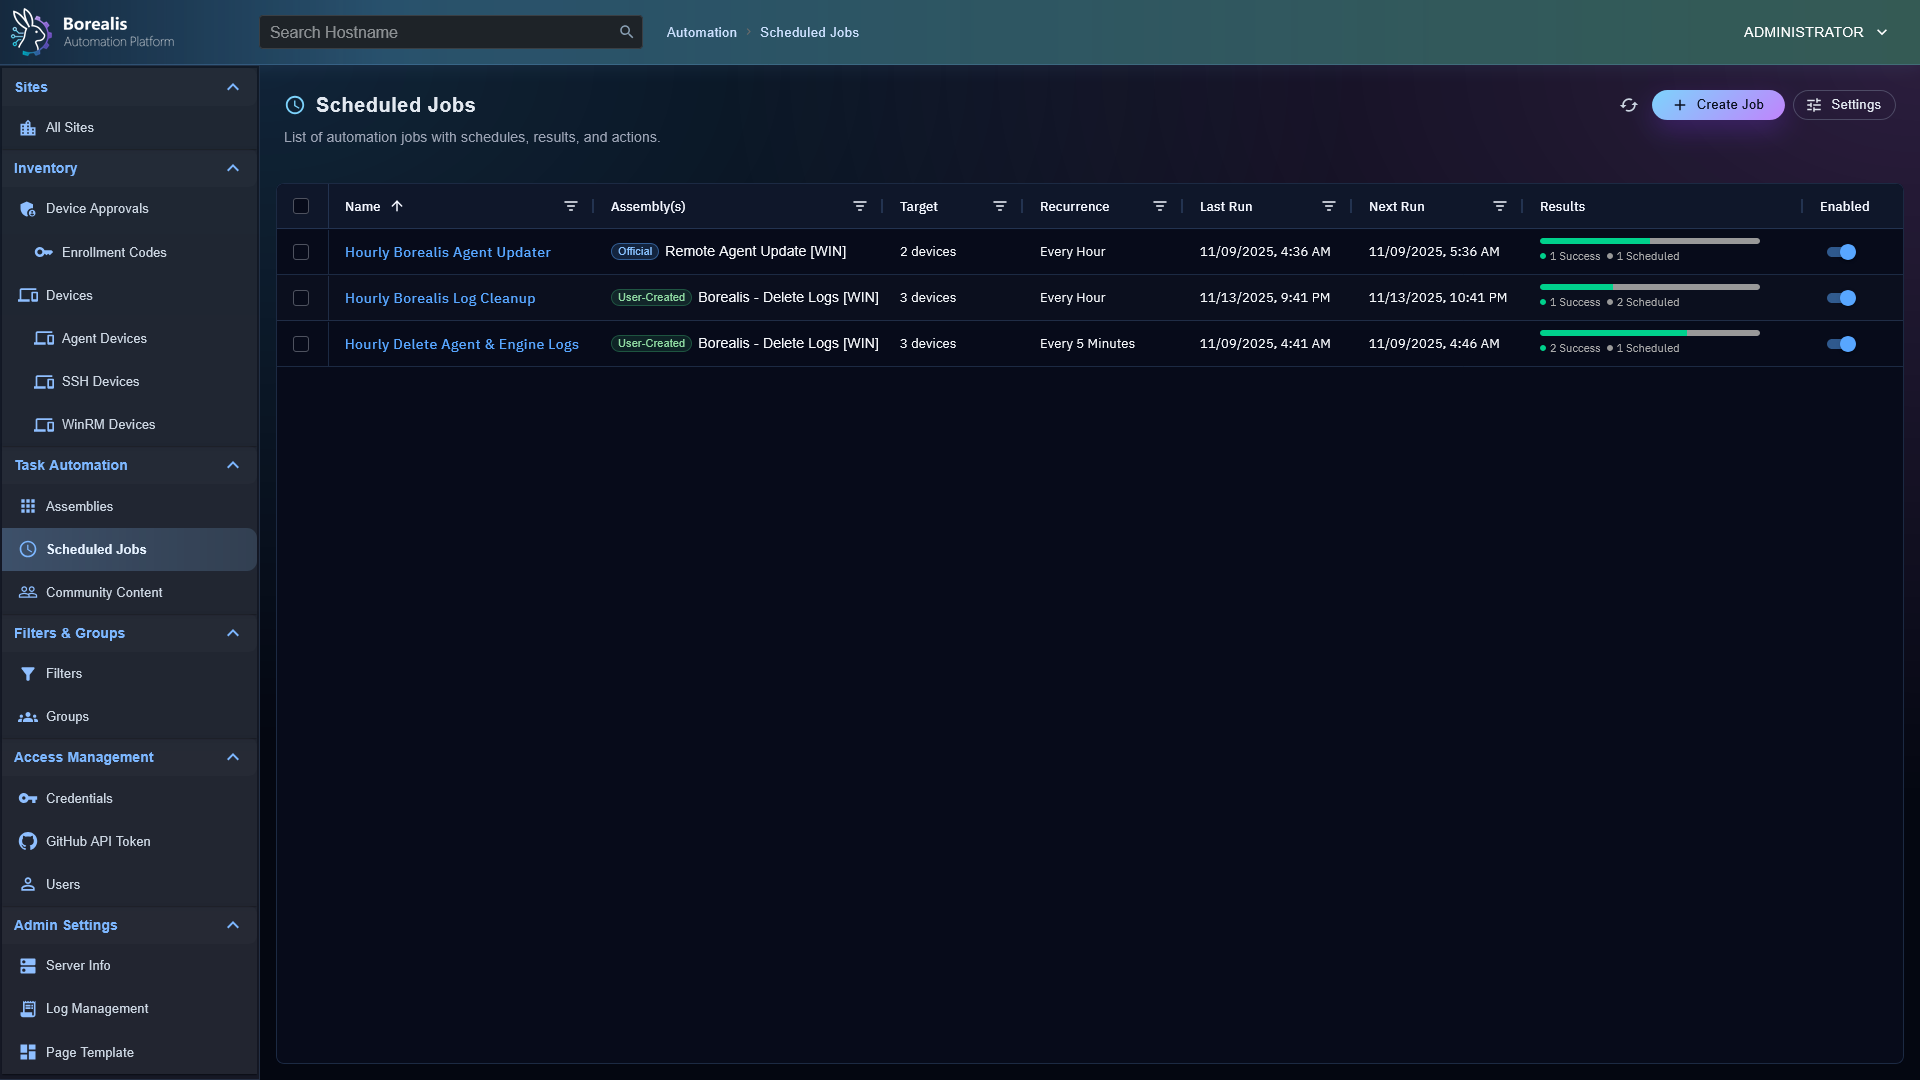
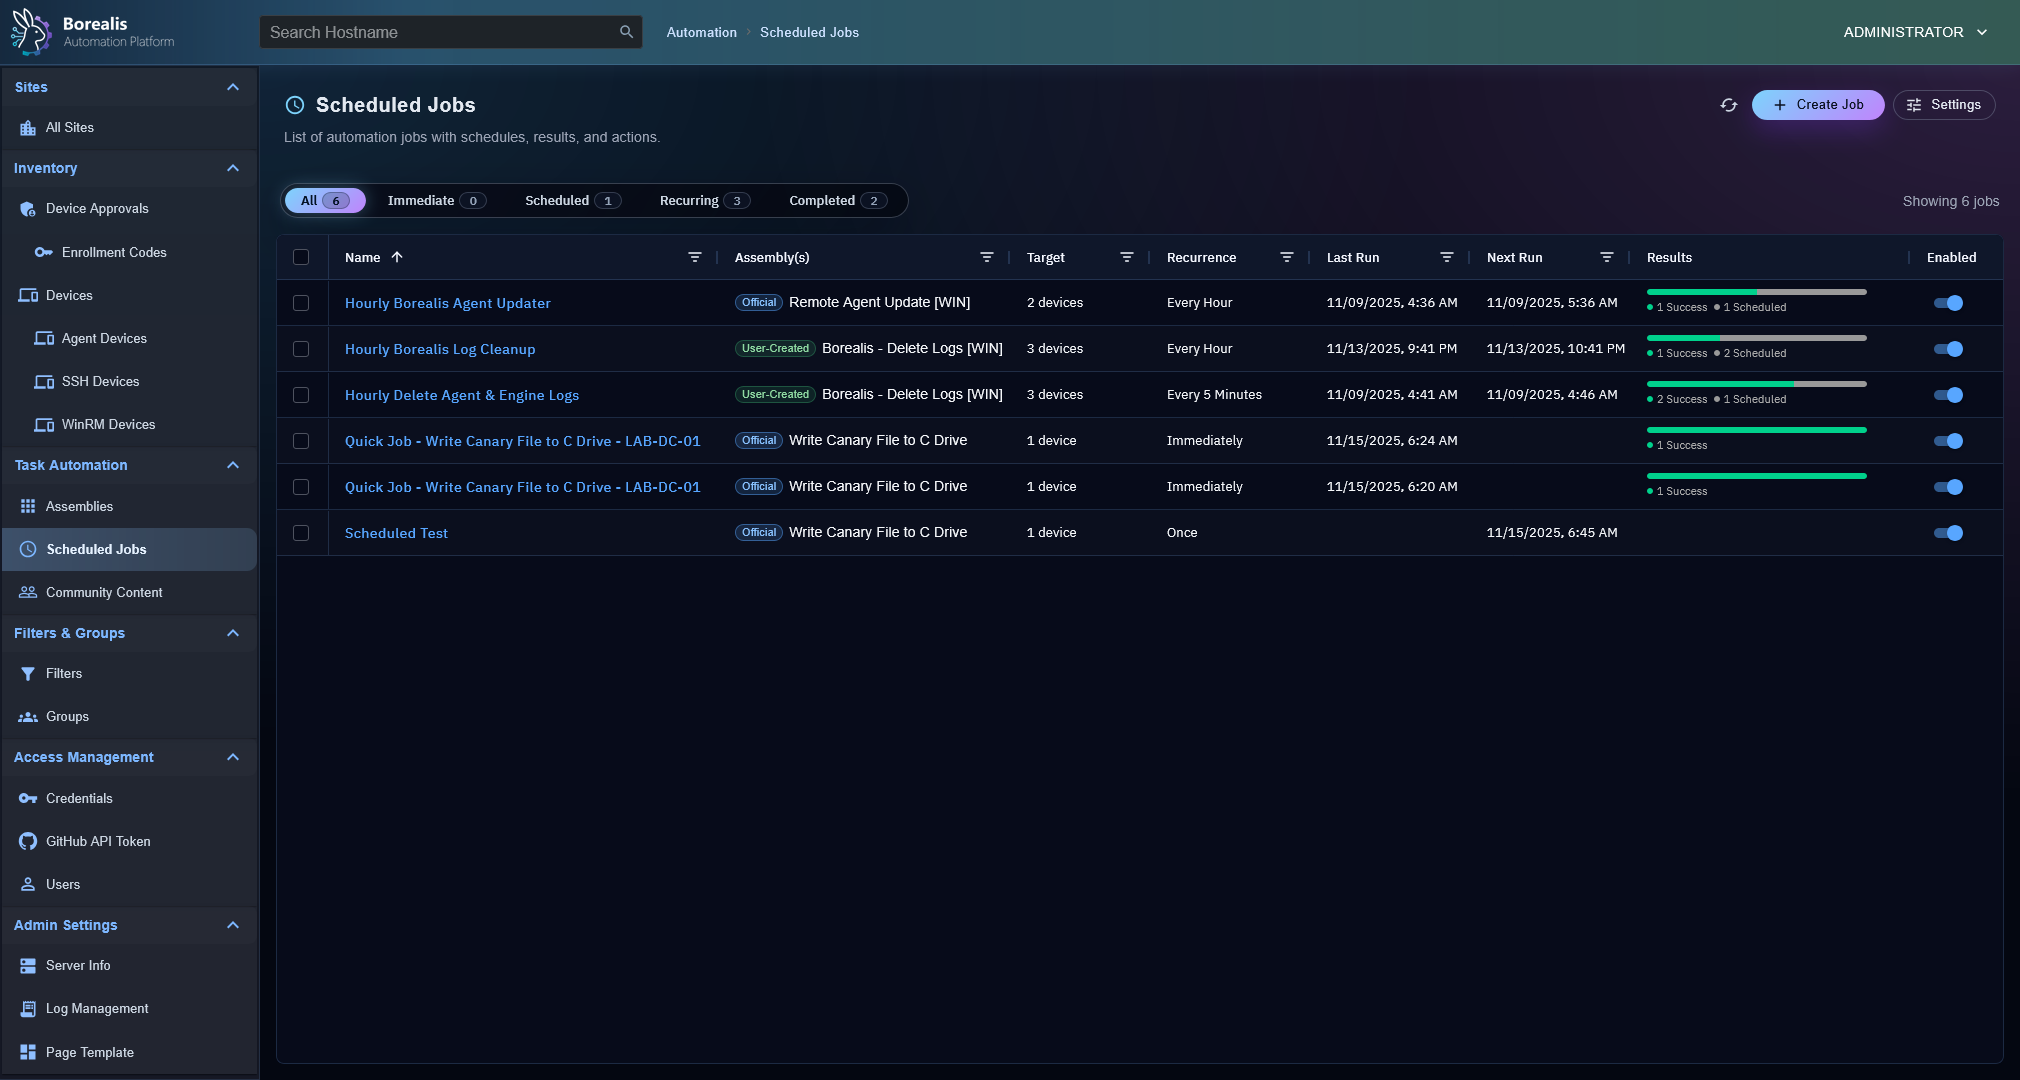
Updated Scheduled Job List Screenshot

diff --git a/Data/Engine/web-interface/src/Scheduling/Scheduled_Jobs_List.jsx b/Data/Engine/web-interface/src/Scheduling/Scheduled_Jobs_List.jsx
@@ -173,6 +173,11 @@ export default function ScheduledJobsList({ onCreateJob, onEditJob, refreshToken
   const [assembliesError, setAssembliesError] = useState("");
   const gridApiRef = useRef(null);
 
+  const deriveRowKey = useCallback((row, index = "") => {
+    const candidate = row?.id ?? row?.name ?? index ?? "";
+    return String(candidate);
+  }, []);
+
   const assembliesCellRenderer = useCallback((params) => {
     const list = params?.data?.componentsMeta || [];
     if (!list.length) {
@@ -380,7 +385,7 @@ export default function ScheduledJobsList({ onCreateJob, onEditJob, refreshToken
         setSelectedIds((prev) => {
           if (!prev.size) return prev;
           const valid = new Set(
-            mappedRows.map((row, index) => row.id ?? row.name ?? String(index))
+            mappedRows.map((row, index) => deriveRowKey(row, index))
           );
           let changed = false;
           const next = new Set();
@@ -403,7 +408,7 @@ export default function ScheduledJobsList({ onCreateJob, onEditJob, refreshToken
         }
       }
     },
-    [assemblyIndex]
+    [assemblyIndex, deriveRowKey]
   );
 
   useEffect(() => {
@@ -466,7 +471,8 @@ export default function ScheduledJobsList({ onCreateJob, onEditJob, refreshToken
     const api = gridApiRef.current;
     if (!api) return;
     api.forEachNode((node) => {
-      const shouldSelect = selectedIds.has(node.id);
+      const nodeId = String(node?.id ?? "");
+      const shouldSelect = selectedIds.has(nodeId);
       if (node.isSelected() !== shouldSelect) {
         node.setSelected(shouldSelect);
       }
@@ -488,13 +494,10 @@ export default function ScheduledJobsList({ onCreateJob, onEditJob, refreshToken
     setSelectedIds(next);
   }, []);
 
-  const getRowId = useCallback((params) => {
-    return (
-      params?.data?.id ??
-      params?.data?.name ??
-      String(params?.rowIndex ?? "")
-    );
-  }, []);
+  const getRowId = useCallback(
+    (params) => deriveRowKey(params?.data, params?.rowIndex),
+    [deriveRowKey]
+  );
 
   const nameCellRenderer = useCallback(
     (params) => {
